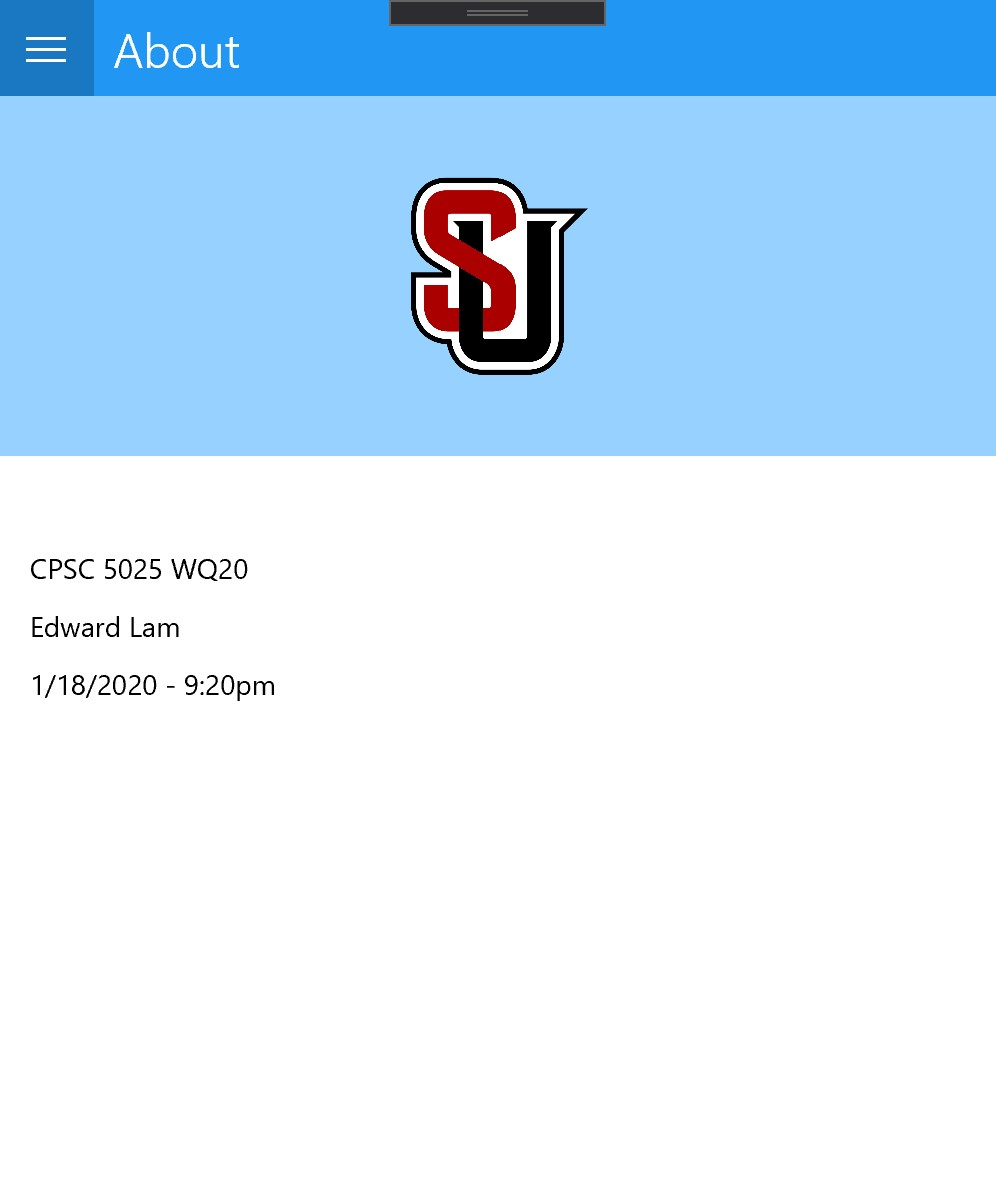
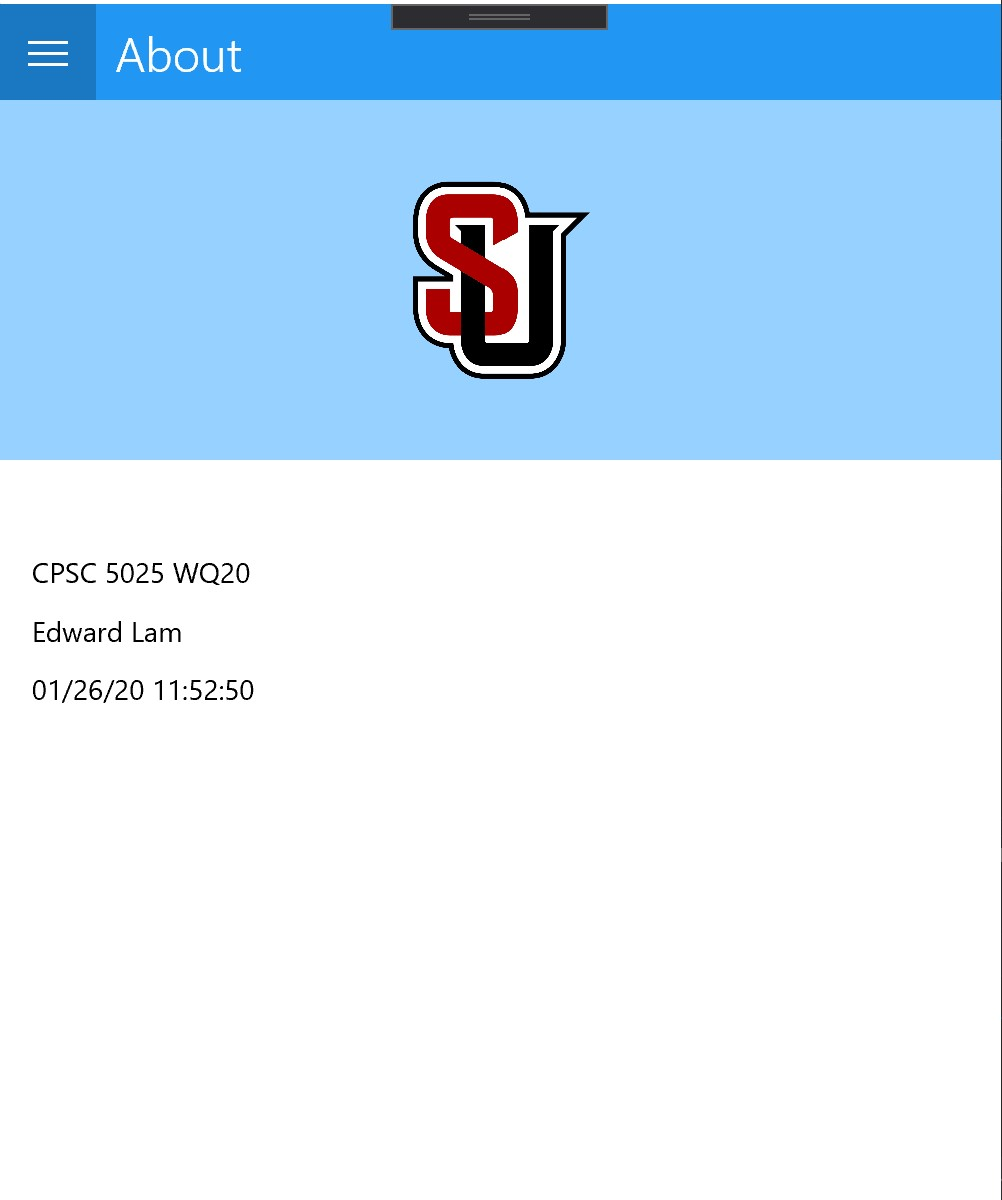
Added Today’s DateTime to AboutPage

Changed region(s): [[0.0, 0.0, 1.0, 1.0], [0.4046, 0.1233, 0.5914, 0.3392], [0.0311, 0.4625, 0.2801, 0.5858]]

diff --git a/Mine/Mine/Views/AboutPage.xaml b/Mine/Mine/Views/AboutPage.xaml
@@ -36,7 +36,7 @@
             <StackLayout Orientation="Vertical" Padding="16,40,16,40" Spacing="10">
                 <Label Text="CPSC 5025 WQ20"></Label>
                 <Label Text="Edward Lam "></Label>
-                <Label Text="1/18/2020 - 9:20pm"></Label>
+                <Label x:Name="CurrentDateTime"></Label>
             </StackLayout>
         </ScrollView>
     </Grid>

diff --git a/Mine/Mine/Views/AboutPage.xaml.cs b/Mine/Mine/Views/AboutPage.xaml.cs
@@ -17,6 +17,7 @@ namespace Mine.Views
         public AboutPage()
         {
             InitializeComponent();
+            CurrentDateTime.Text = System.DateTime.Now.ToString("MM/dd/yy hh:mm:ss");
         }
     }
 }
